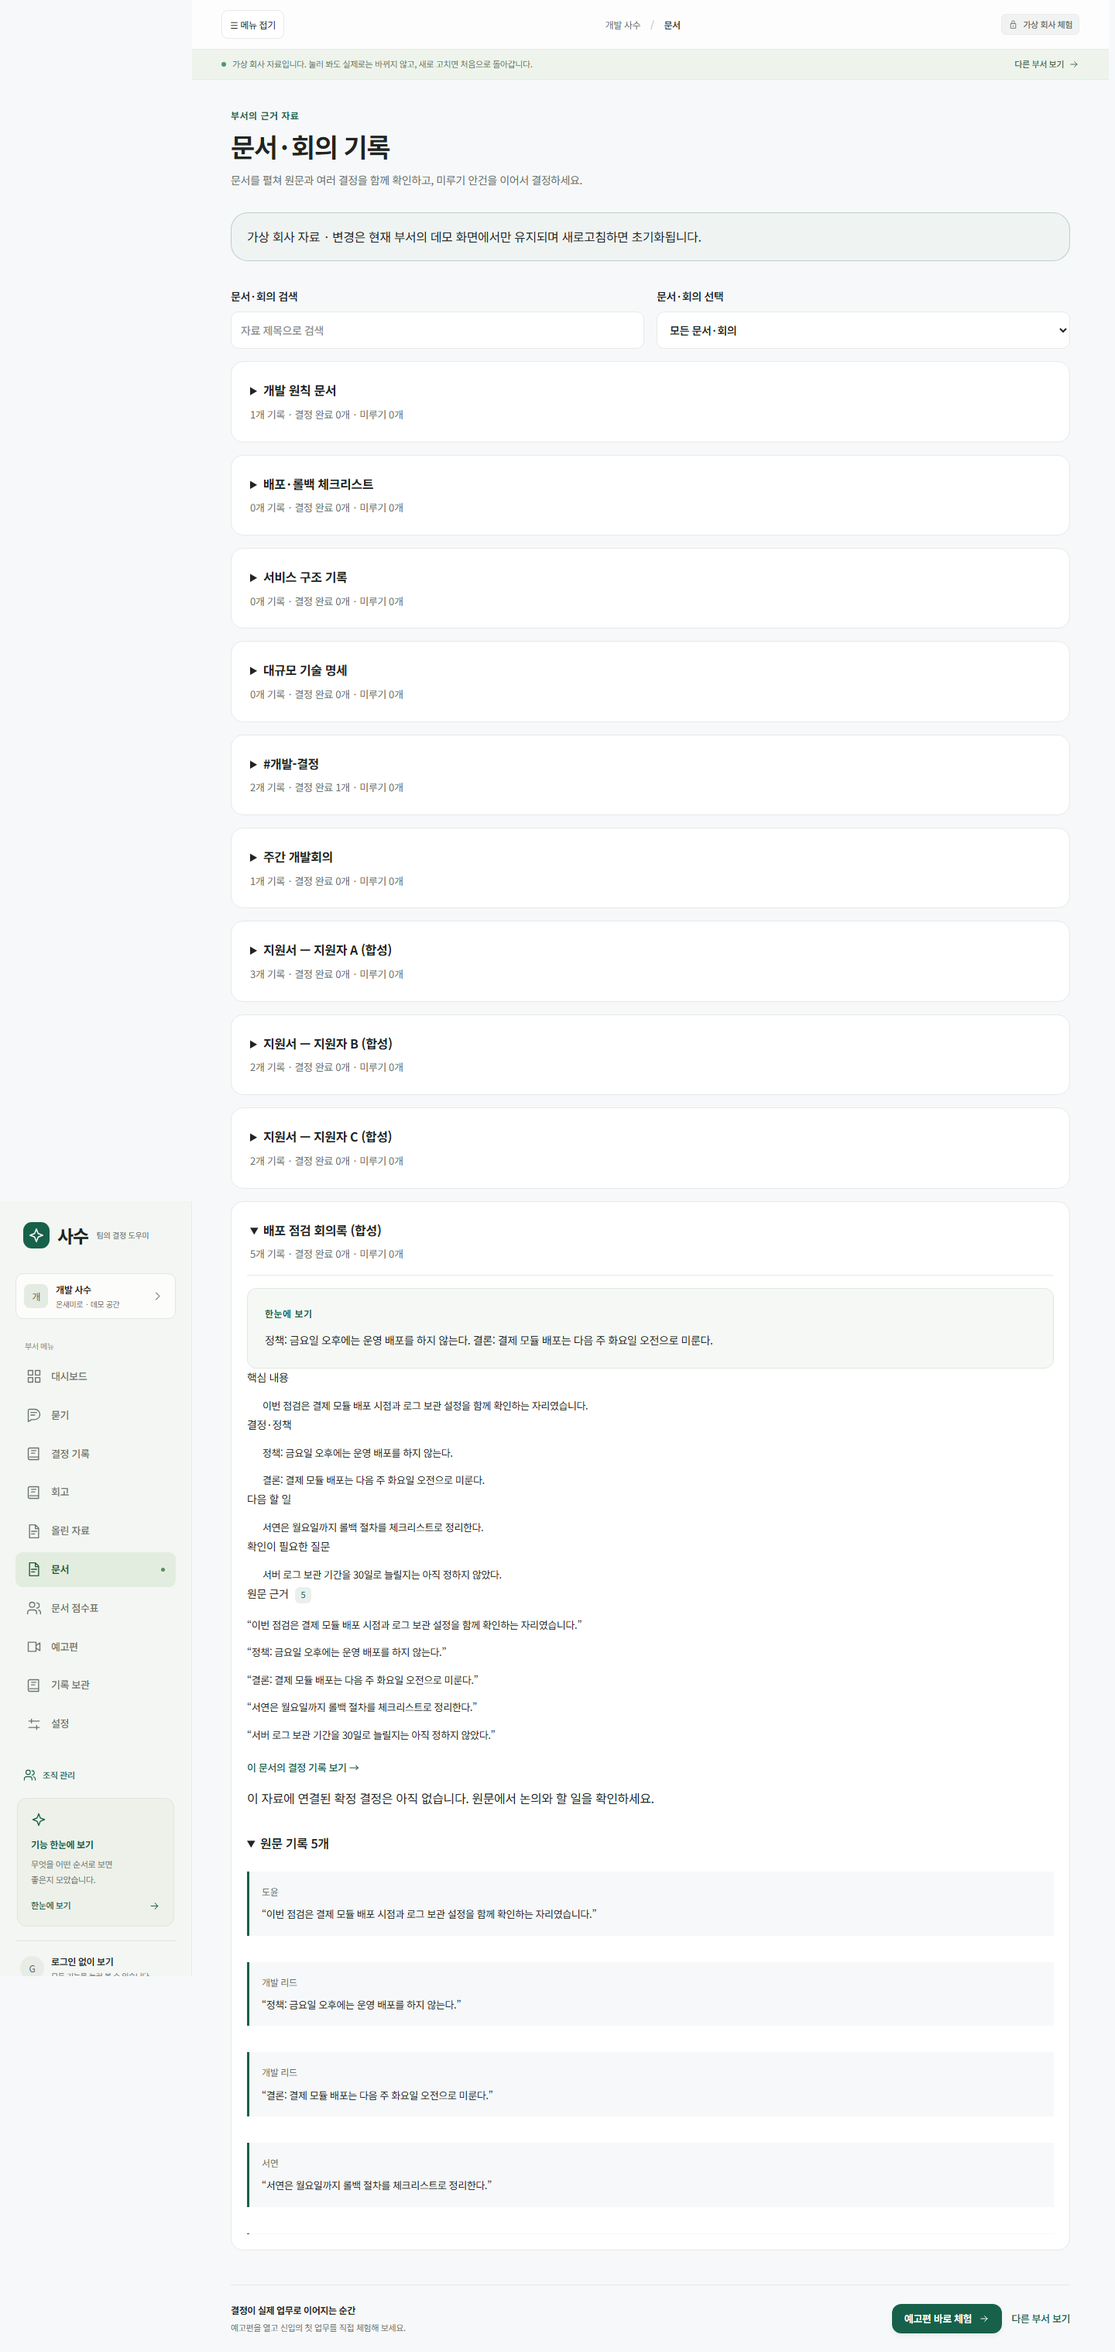
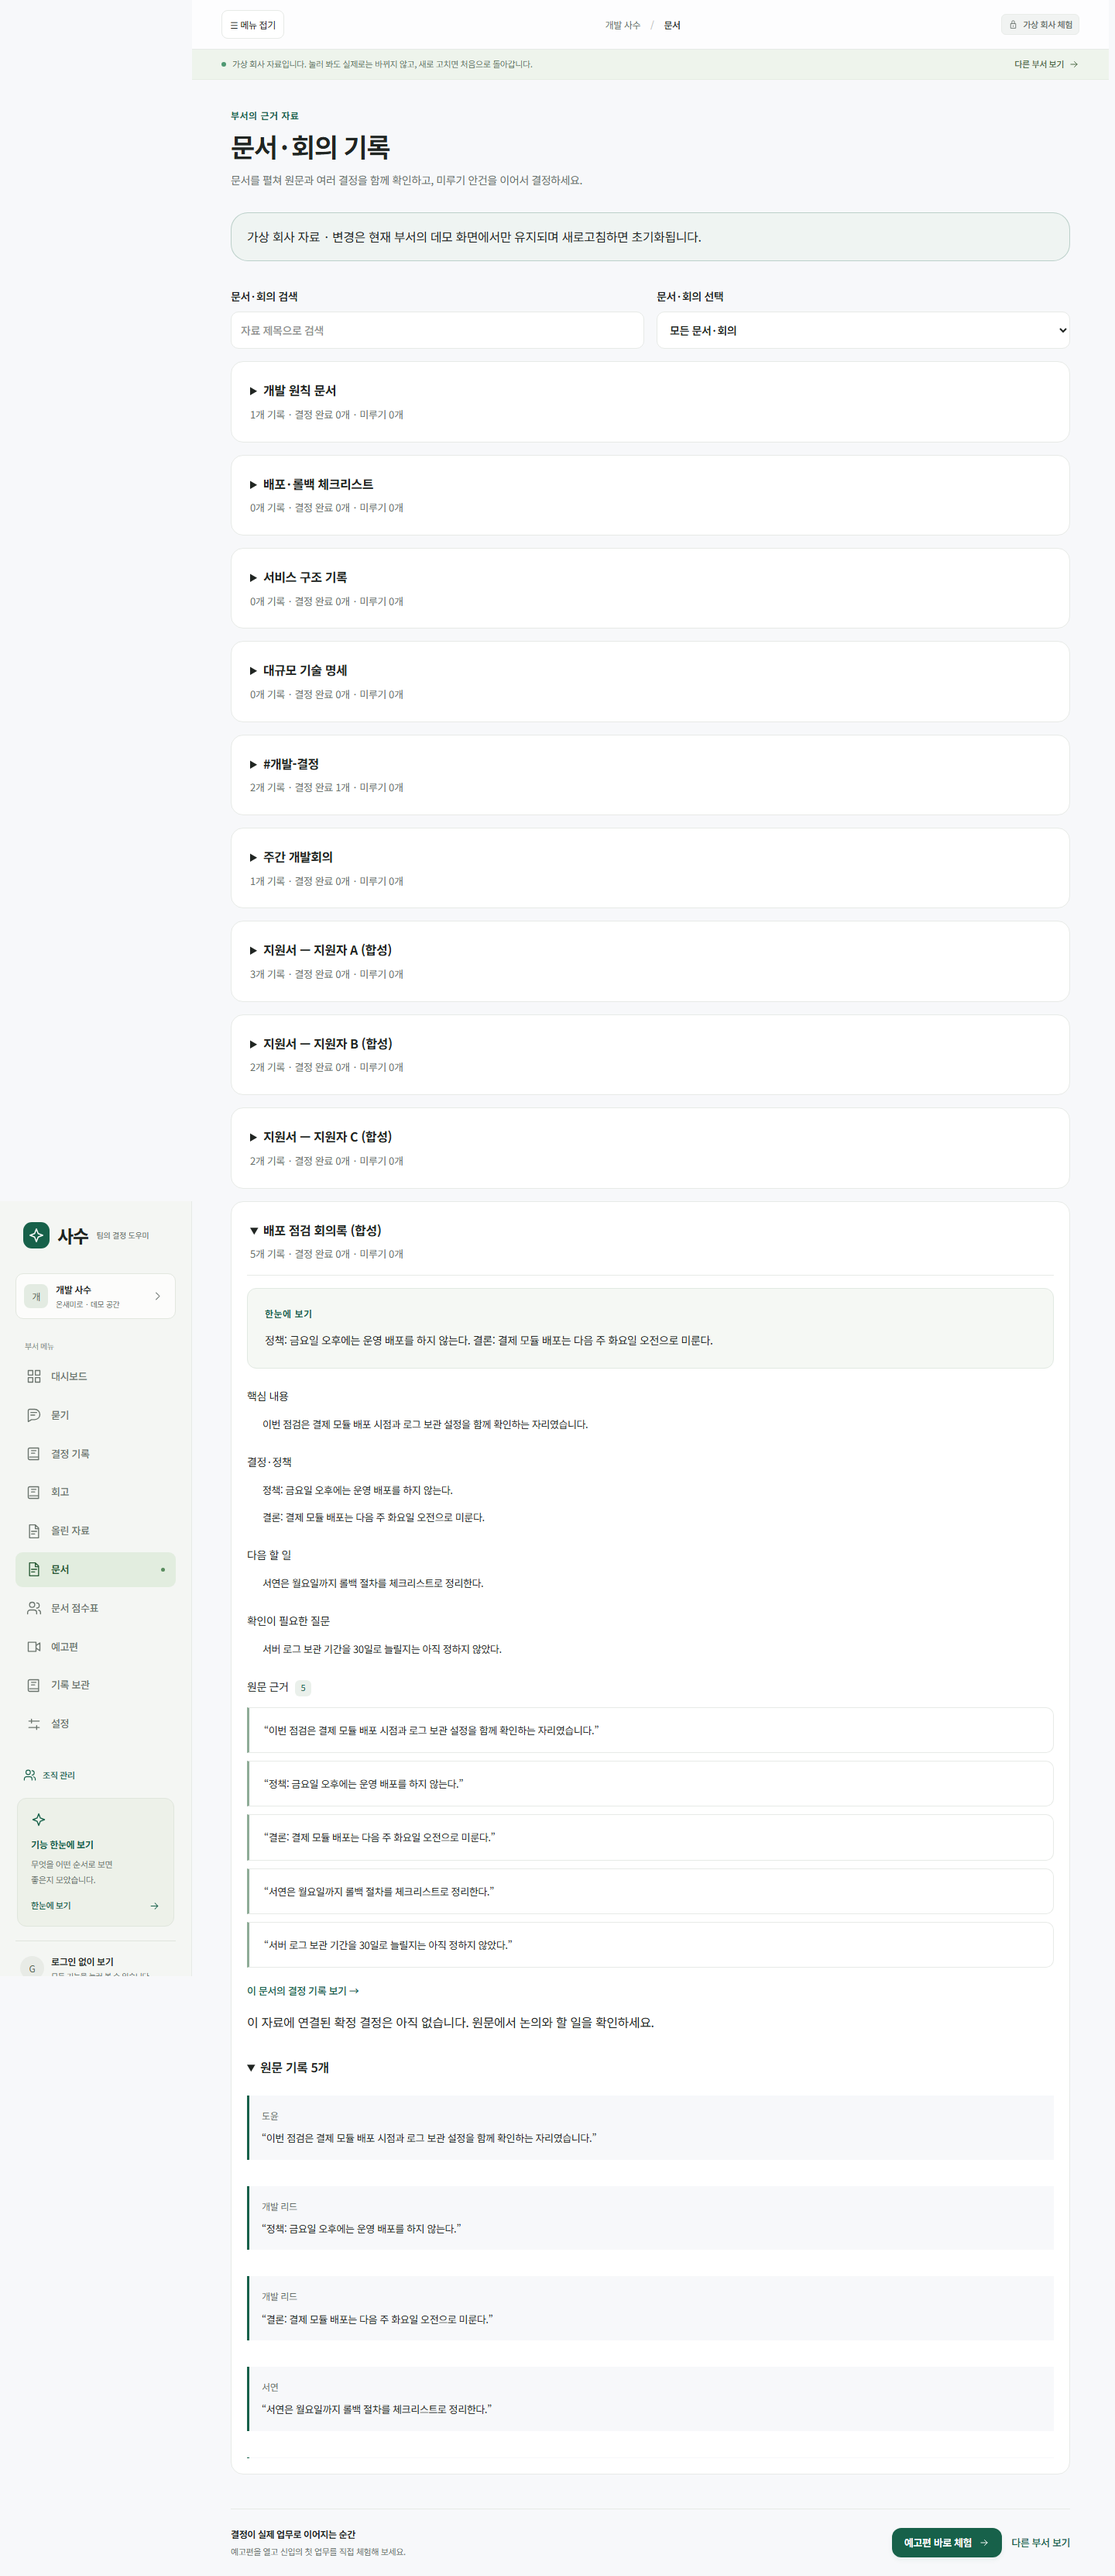
docs(53-demo-document-summary): record production rollout and demo login incident
Migration 0070, demo reseed and PR #46 are live; production E2E 26 passed plus
demo-reviewer 5 passed, with the production demo documents captures. Records the
incident where reseeding without the production demo login variables (and then
with the Vercel "[sensitive]" placeholder) broke the reviewer auto-login for
about 45 minutes, and the recovery by rotating the reviewer password in Supabase
and the Vercel secret followed by a production redeploy.

Claude-Session: https://claude.ai/code/session_01U1vrukF7LMG4m2NzhXubu5

diff --git a/docs/verification/53-demo-document-summary/production-2026-10-07.md b/docs/verification/53-demo-document-summary/production-2026-10-07.md
@@ -1,0 +1,31 @@
+# phase 53 운영 반영 기록 (2026-10-07)
+
+사용자 승인(①~④ 모두 진행) 후 실행. 화면 캡처: [1440](demo-documents-1440.png) · [390](demo-documents-390.png) — 운영 E1이 다시 찍은 실제 화면(스타일 보완 반영).
+
+## ① migration 0070
+
+- worktree에서 `npx supabase db push --workdir . --db-url <운영> --dry-run --skip-vault` → 대상 `0070_demo_document_summaries_read.sql` 한 건 확인. (`--workdir` 없이 돌리면 CLI가 메인 체크아웃의 `supabase/`를 잡아 "up to date"로 잘못 나온다.)
+- 스키마 백업 `.vercel/schema-before-0070-20261007.sql`(리포 밖) → `db push --workdir . --skip-vault --yes` 적용.
+- 확인(익명 키 REST): 데모 개발 부서 요약 3행, 익명으로 보이는 요약 전체가 그 부서뿐(파일럿 부서 요약 0).
+
+## ② 데모 시드 재생성
+
+- `scripts/seed-demo.ts`(이 브랜치) → `demo_org=1 departments=7 reviewer=1 prepared_answers=42 items=160`. 익명 REST로 요약 4행(합성 배포 점검 회의록 + 지원서 3건), overview가 모두 원문 문장임을 확인.
+
+## ③ PR #46 병합
+
+- 머지 커밋 `2b0d208`, Vercel `success`.
+
+## ④ 운영 E2E
+
+- 1차: `demo-document-summary`·guest·demo-public-workspace·demo-meeting-recorder·site·security-headers 통과, **demo-reviewer 3건 실패**("심사위원 데모 계정으로 접속했습니다" 없음) → 아래 사고.
+- 복구 후 최종: 같은 묶음 **26 passed**(1 skipped) + `demo-reviewer.spec.ts` **5 passed**(Supabase URL·anon 키 환경변수를 넣어 단독 재실행 — worktree에 운영 `.env`가 없어 첫 재실행 1건이 `NEXT_PUBLIC_SUPABASE_URL is not set`으로 실패했던 것은 실행 환경 문제).
+- E1: 합성 문서 펼침 → 한눈에 보기·결정·정책·다음 할 일·확인이 필요한 질문·원문 근거 5 표시, overview 두 문장이 원문 기록에 존재, 쓰기 버튼 0.
+
+## 사고: 데모 심사 계정 자동 연결 중단과 복구
+
+- 원인: 운영 재시드를 로컬 `.env`로 실행했는데, 로컬에는 `SASU_DEMO_AUTO_LOGIN_ENABLED`·`SASU_DEMO_USER_EMAIL`·`SASU_DEMO_USER_PASSWORD`가 없다. 시드는 자동 로그인이 꺼진 것으로 보고 심사 계정(`99999999-…991`)을 비밀번호 없이 다시 만들었다 → 운영 `/demo/access`가 `/demo?demo=unavailable`로 이동.
+- 1차 복구 시도: `vercel env pull --environment=production`으로 받은 값으로 재시드 — 그러나 `SASU_DEMO_USER_PASSWORD`는 Vercel **Secret**이라 pull 값이 자리표시자 `[sensitive]`(11자)였고, 심사 계정 비밀번호가 그 문자열로 설정됐다(운영 서버 값과 불일치). 원래 비밀번호는 어디에도 사본이 없어 복원할 수 없었다.
+- 복구(사용자 승인): 무작위 비밀번호 생성 → Supabase admin API로 심사 계정 비밀번호 변경·로그인 확인 → `vercel env add SASU_DEMO_USER_PASSWORD production --sensitive --force`(stdin) → 운영 배포 `vercel redeploy … --target production`(Ready 8m, getsasu.com 연결). 비밀번호는 화면·파일·로그에 남기지 않았고, pull한 임시 env 파일은 바로 삭제했다.
+- 결과: `/demo/access` → 303 `/demo`, demo-reviewer 5/5 통과. 중단 구간은 약 03:46~04:30(KST). 그 사이 게스트 체험 화면은 열렸고 심사위원 자동 연결만 실패했다.
+- 재발 방지: 운영 재시드 절차에 데모 로그인 변수 필요를 기록(메모리 `sasu-production-rollout`). 시드가 운영 대상에서 데모 로그인 변수 없이 실행되면 멈추게 하거나, 심사 계정을 지우지 않고 유지하도록 바꾸는 것은 후속 후보로 남긴다. 새 비밀번호는 Vercel Secret에만 있으므로 다음 재시드도 같은 문제를 겪는다 — 재시드 전에 반드시 위 후속 조치나 비밀번호 재설정 절차가 필요하다.

diff --git a/docs/04-report/features/demo-document-summary.report.md b/docs/04-report/features/demo-document-summary.report.md
@@ -1,6 +1,6 @@
 # demo-document-summary Completion Report
 
-> Status: 구현·로컬 검증 완료, 운영 반영(migration → 데모 재시드 → 병합) 사용자 승인 대기.
+> Status: 완료 — 2026-10-07 운영 반영(0070 → 데모 재시드 → PR #46), 운영 E2E 통과. 재시드 사고(데모 심사 계정 자동 연결 약 45분 중단)는 비밀번호 교체·재배포로 복구([기록](../../verification/53-demo-document-summary/production-2026-10-07.md)).
 > Project: 사수(SASU) · phase 53
 > Author: root(Claude Code) · step 0(opus)·step 1(sonnet) 서브에이전트 · 독립 분석 gap-detector
 > Completion Date: 2026-10-07 · PDCA Cycle: phase 53
@@ -35,10 +35,10 @@
 |---|---|:-:|---|
 | SC1 | 익명은 데모 요약만 읽고 쓰기 불가 | ✅ | SQL 하니스 신규 5개 통과 |
 | SC2 | 읽기 시 재검증·시드 dropped 0 | ✅ | U1~U4, seed-demo 14 passed |
-| SC3 | 데모 화면 요약 구역·원문 문장 overview | ✅ 로컬 / ⏳ 운영 | E1 2 passed, 캡처 |
-| SC4 | lint·test·build·데모 회귀 | ⚠ | E2 61/65(로컬 DB 환경 4건), 운영 반영 후 재확인 |
+| SC3 | 데모 화면 요약 구역·원문 문장 overview | ✅ | 로컬·운영 E1 통과, 운영 캡처 |
+| SC4 | lint·test·build·데모 회귀 | ✅ | 운영 E2E 26 passed + demo-reviewer 5 passed |
 
-Overall: 3/4 확정, 1건 운영 확인 대기.
+Overall: 4/4.
 
 ## 2. Key Decisions & Outcomes
 
